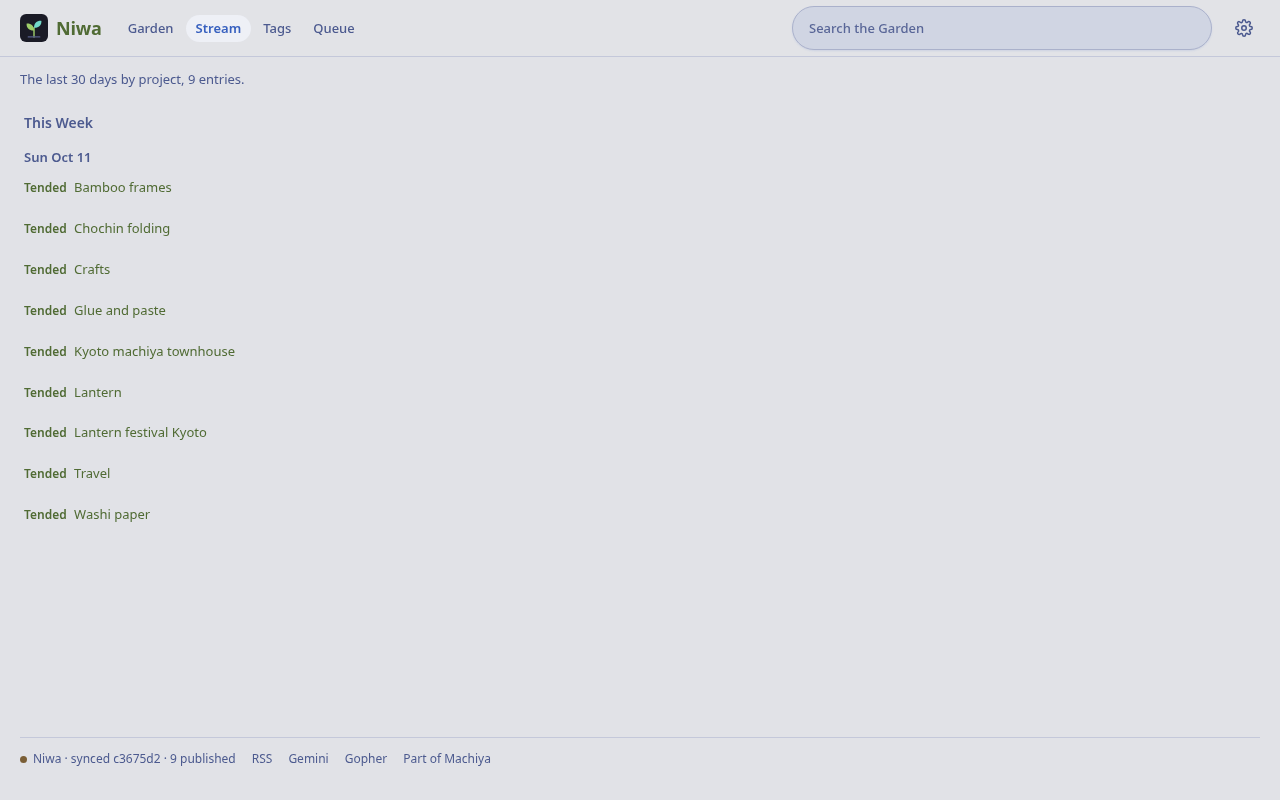
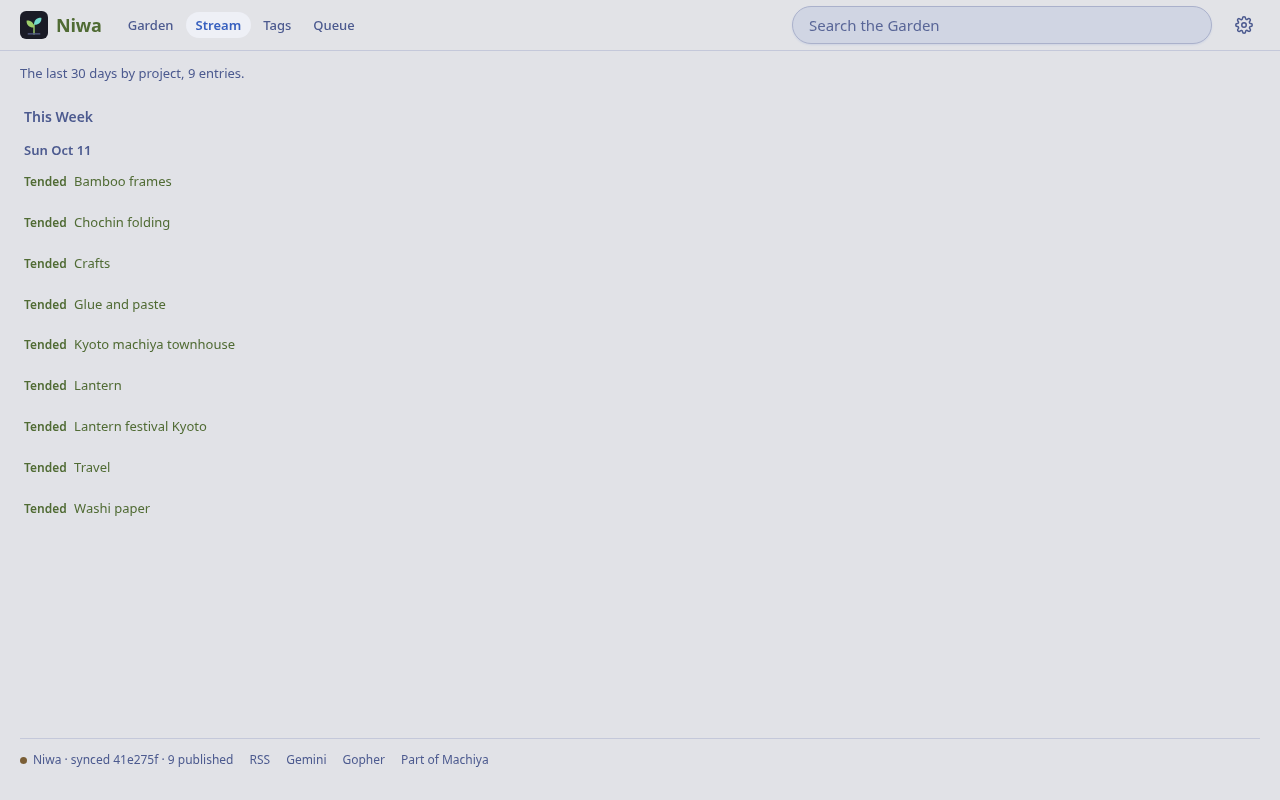
niwa 0.15.5: vaultkit 0.31.4: the search field is a fixed 38px tall; its text is 15px from 1100px

diff --git a/app/vaultkit/ui/machiya.css b/app/vaultkit/ui/machiya.css
@@ -540,8 +540,8 @@ header.top {
   .tools > * { order: 1; }
   header.top > .searchrow { order: 2; flex: 0 .2 auto; width: clamp(180px, 75vw - 540px, 420px); min-width: 150px;
     margin: 0; padding: 6px 0; }
-  /* the field's text is the tabs' (v0.31.3, owner 2026-10-11); the line keeps the 16px field's height, so the pill doesn't shrink */
-  header.top > .searchrow form.search.searchbar input { font-size: var(--fs-s); font-weight: 500; line-height: calc(var(--fs-l) * 1.4); }
+  /* the field's text is 15px (v0.31.4, owner 2026-10-11; v0.31.3's 13px, the tabs' size, read too small); phones keep 16px */
+  header.top > .searchrow form.search.searchbar input { font-size: 15px; }
   .tools > :is(.rooms, .who, .gear) { order: 3; }
   /* the tools' own 10px gap, inside the header's 16px one */
   .tools > :not(.rooms, .who, .gear) + :not(.rooms, .who, .gear), .tools > :is(.rooms, .who, .gear) + :is(.who, .gear) {
@@ -793,9 +793,11 @@ main form.search input { width: 100%; font-size: var(--fs-l); padding: 9px 12px;
 .searchrow { padding: 2px 0 10px; }
 form.search.searchbar { display: block; max-width: 720px; }
 form.search.searchbar .field { position: relative; }
-form.search.searchbar input { width: 100%; max-width: none; height: auto; padding: 10px 44px 10px 16px; border-radius: 999px;
+/* 38px tall at every width, Shiori Search's field as Safari draws it (v0.31.4, owner 2026-10-11; v0.31.3's 44.4px came from
+   Shiori's CSS, but Safari draws that one at 38): a fixed height, so no font or line-height can change it */
+form.search.searchbar input { width: 100%; max-width: none; height: 38px; padding: 0 44px 0 16px; border-radius: 999px;
   border: 1px solid var(--line2); background: var(--dark); color: var(--menu-fg, var(--fg)); font: inherit; font-size: var(--fs-l);
-  line-height: 1.4; box-shadow: var(--shadow-1); transition: none; }   /* 1.4: Shiori Search's field height (v0.31.3) */
+  line-height: normal; box-shadow: var(--shadow-1); transition: none; }
 form.search.searchbar input::placeholder { color: var(--muted); opacity: .9; }
 form.search.searchbar input:focus { outline: none; border-color: var(--room); }
 /* focused, one solid 2px ring on the field's edge, as Shiori Search's (v0.31.3, owner 2026-10-11; was the border plus a ring

diff --git a/tests/test_niwa.py b/tests/test_niwa.py
@@ -3049,7 +3049,8 @@ class PublicGardenTest(unittest.TestCase):
         self.assertIn("width: clamp(180px, 75vw - 540px, 420px); min-width: 150px;", shared_css)     # the pill, v0.31.2
         self.assertIn("form.search.searchbar input:focus-visible { outline: 2px solid var(--room); outline-offset: -2px; }",
                       shared_css)                                                        # one ring on the edge, v0.31.3
-        self.assertIn("header.top > .searchrow form.search.searchbar input { font-size: var(--fs-s); font-weight: 500;", shared_css)
+        self.assertIn("header.top > .searchrow form.search.searchbar input { font-size: 15px; }", shared_css)    # v0.31.4
+        self.assertIn("form.search.searchbar input { width: 100%; max-width: none; height: 38px;", shared_css)   # a fixed 38px
         with open(os.path.join(os.path.dirname(__file__), "..", "app", "vaultkit", "ui", "machiya.js")) as f:
             self.assertIn('foot.style.marginTop = parseFloat(getComputedStyle(foot).marginTop) + gap + "px"', f.read())   # v0.31.3
         with open(os.path.join(os.path.dirname(__file__), "..", "app", "static", "niwa.css")) as f:

diff --git a/app/vaultkit/__init__.py b/app/vaultkit/__init__.py
@@ -13,4 +13,4 @@ from .vault import CALLOUT_RE, EMBED_RE, HIDDEN, IMAGE_EXT, MDIMG_RE, Vault     
 from .frontmatter import EditError, edit_front, merge_note, version_of, yaml_scalar   # noqa: F401
 from .gitsync import GitSync                                                          # noqa: F401
 
-__version__ = "0.31.3"
+__version__ = "0.31.4"

diff --git a/app/niwa.py b/app/niwa.py
@@ -52,7 +52,7 @@ from vaultkit import read_secret  # noqa: E402
 from vaultkit import signin  # noqa: E402
 from writer import Writer, WriteError  # noqa: E402
 
-VERSION = "0.15.4"
+VERSION = "0.15.5"
 PORT = int(os.environ.get("NIWA_PORT", "8080"))
 USERS = set(filter(None, (u.strip() for u in os.environ.get("NIWA_USERS", "").split(","))))
 

diff --git a/app/CHANGELOG.md b/app/CHANGELOG.md
@@ -3,6 +3,13 @@
 Niwa follows [SemVer](https://semver.org). Before 1.0, a new feature, a changed default or setting, or a changed API
 field is a minor bump, and a fix or wording change is a patch. Settings are listed in the README.
 
+## 0.15.5
+
+vaultkit 0.31.4 (owner decision 2026-10-11, from Safari).
+
+- **The search field is a fixed 38px tall at every width**, so no font or line height changes it (it was 44px). The one-row header is 51px and the phone header 99px.
+- From 1100px the field's text is 15px (the 13px of 0.15.4 read too small). Phones keep 16px, so iOS doesn't zoom in.
+
 ## 0.15.4
 
 vaultkit 0.31.3 (owner decision 2026-10-11).
